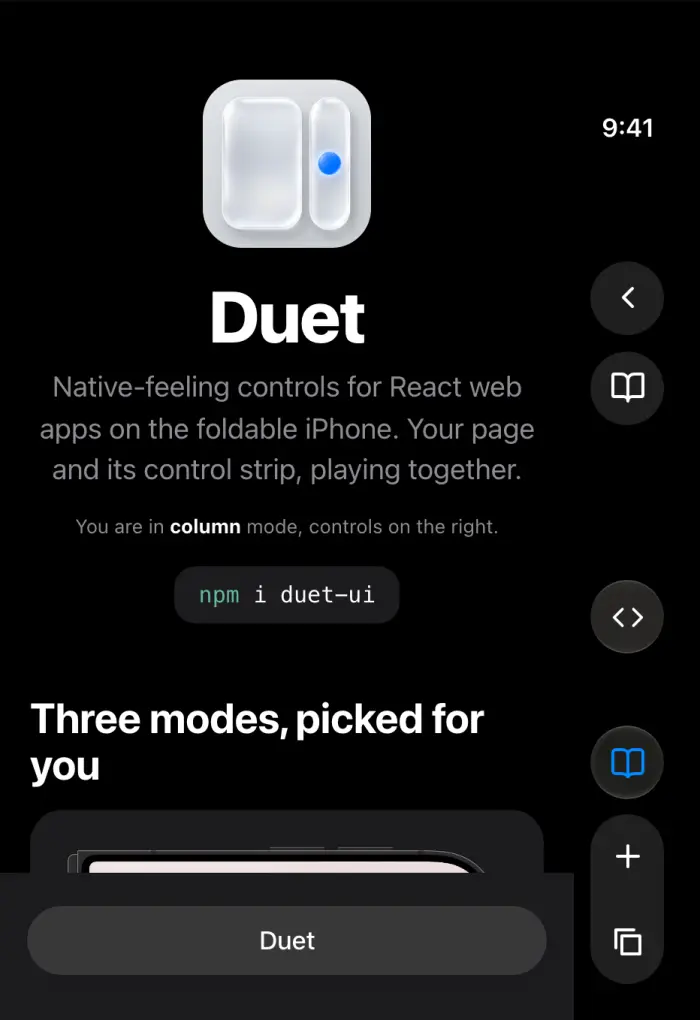
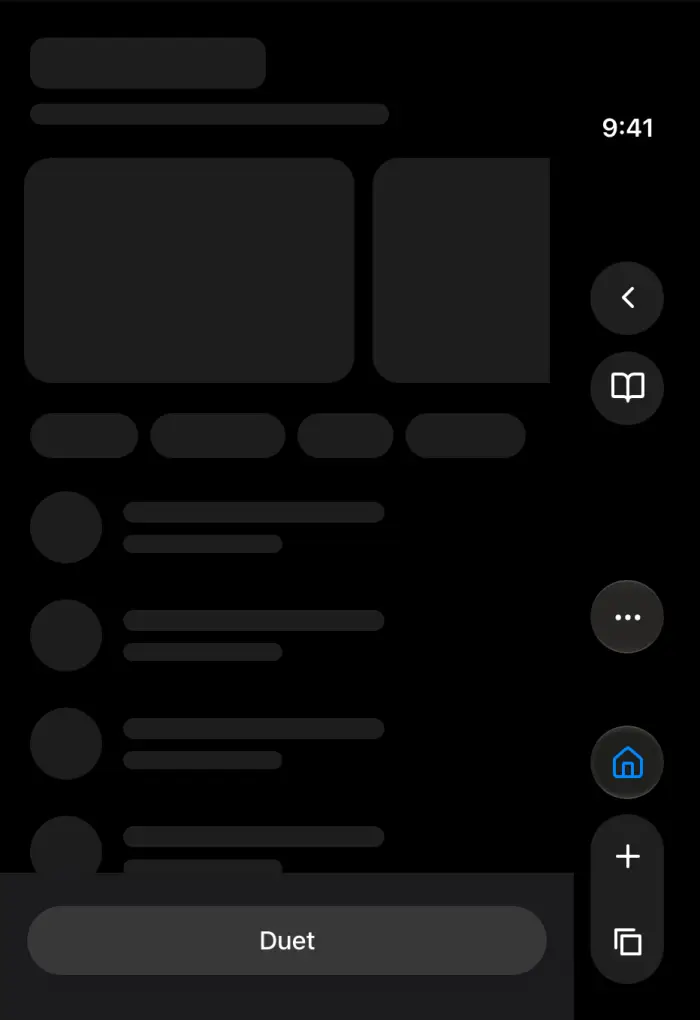
site: skeleton app for the hero and Try it live
Ghost boxes stand in for content so the hero stills and the web Duo show only what Duet adds. Try it live defaults to the skeleton, with a toggle to this site.

diff --git a/apps/site/app/skeleton/skeleton-app.tsx b/apps/site/app/skeleton/skeleton-app.tsx
@@ -1,0 +1,70 @@
+"use client";
+
+import { useState, type CSSProperties } from "react";
+import { Bell, House, Library, Plus, Search, Share } from "lucide-react";
+import { Duet, bleed, column, type DuetItem } from "duet-ui";
+
+const TABS = [
+  { id: "home", label: "Home", icon: <House size={24} /> },
+  { id: "library", label: "Library", icon: <Library size={24} /> },
+  { id: "alerts", label: "Alerts", icon: <Bell size={24} /> },
+] as const satisfies readonly DuetItem[];
+
+const CSS = `
+@keyframes sk-shine { from { background-position: 100% 0; } to { background-position: -100% 0; } }
+[data-sk] { background: linear-gradient(90deg, var(--sk) 40%, var(--sk-hi) 50%, var(--sk) 60%) 0 0 / 200% 100%; animation: sk-shine 1.8s linear infinite; }
+:root { --sk: rgb(60 60 67 / 0.13); --sk-hi: rgb(60 60 67 / 0.05); }
+@media (prefers-color-scheme: dark) { :root:not([data-lg-theme="light"]) { --sk: rgb(235 235 245 / 0.12); --sk-hi: rgb(235 235 245 / 0.2); } }
+:root[data-lg-theme="dark"] { --sk: rgb(235 235 245 / 0.12); --sk-hi: rgb(235 235 245 / 0.2); }
+@media (prefers-reduced-motion: reduce) { [data-sk] { animation: none; } }
+`;
+
+/** A ghost box: where a piece of content would be. */
+function Box({ w = "100%", h, r = 12, style }: { w?: number | string; h: number; r?: number; style?: CSSProperties }) {
+  return <div data-sk="" style={{ width: w, height: h, borderRadius: r, flexShrink: 0, ...style }} />;
+}
+
+function Row() {
+  return (
+    <div style={{ display: "flex", alignItems: "center", gap: 14, padding: "12px 0" }}>
+      <Box w={48} h={48} r={24} />
+      <div style={{ flex: 1, display: "grid", gap: 8 }}><Box w="62%" h={14} r={7} /><Box w="38%" h={12} r={6} /></div>
+    </div>
+  );
+}
+
+export function SkeletonApp() {
+  const [tab, setTab] = useState<(typeof TABS)[number]["id"] | "search">("home");
+  return (
+    <Duet
+      tabs={{ items: TABS, selected: tab, onSelect: setTab, search: { id: "search", label: "Search", icon: <Search size={24} /> } }}
+      actions={[{ id: "share", label: "Share", icon: <Share size={22} />, onPress: () => {} }]}
+      primary={{ id: "new", label: "New", icon: <Plus size={22} />, onPress: () => {} }}
+      minimizeOnScroll
+    >
+      <style>{CSS}</style>
+      <main style={{ padding: "calc(24px + env(safe-area-inset-top)) 0 120px" }}>
+        <div style={{ ...column(720), display: "grid", gap: 10, paddingBottom: 18 }}>
+          <Box w="46%" h={34} r={10} />
+          <Box w="70%" h={14} r={7} />
+        </div>
+        {/* A full-width band: it runs under the controls, its content stays beside them. */}
+        <div style={{ ...bleed(16), paddingTop: 4, paddingBottom: 20 }}>
+          <div style={{ display: "flex", gap: 12, overflow: "hidden" }}>
+            {[0, 1, 2, 3].map((i) => <Box key={i} w={220} h={150} r={18} />)}
+          </div>
+        </div>
+        <div style={{ ...column(720) }}>
+          <div style={{ display: "flex", gap: 8, paddingBottom: 10 }}>
+            {[72, 90, 64, 80].map((w, i) => <Box key={i} w={w} h={30} r={15} />)}
+          </div>
+          {[0, 1, 2, 3].map((i) => <Row key={i} />)}
+          <div style={{ display: "grid", gridTemplateColumns: "repeat(auto-fill, minmax(150px, 1fr))", gap: 12, paddingTop: 16 }}>
+            {[0, 1, 2, 3, 4, 5].map((i) => <Box key={i} h={120} r={16} />)}
+          </div>
+          {[0, 1, 2, 3].map((i) => <Row key={`b${i}`} />)}
+        </div>
+      </main>
+    </Duet>
+  );
+}

diff --git a/apps/site/app/duo/web-duo.tsx b/apps/site/app/duo/web-duo.tsx
@@ -178,7 +178,8 @@ const fit = (s: State): State => {
   return !only ? s : s.posture === only && !s.rotated ? s : { ...s, app: "safari" };
 };
 
-export function WebDuo({ src, title = "Duet", intro = "This is the site on a web iPhone Duo. Fold it, turn it, split it. On a phone, the site opens directly." }: { src: string; title?: string; intro?: string }) {
+export function WebDuo({ src: first, sources, title = "Duet", intro = "This is the site on a web iPhone Duo. Fold it, turn it, split it. On a phone, the site opens directly." }: { src: string; sources?: [string, string][]; title?: string; intro?: string }) {
+  const [src, setSrc] = useState(first);
   const [s, setS] = useState<State>(TOUR[0]);
   // The page inside turns upright only once the device has finished turning, like iOS.
   const [upright, setUpright] = useState(false);
@@ -395,6 +396,7 @@ export function WebDuo({ src, title = "Duet", intro = "This is the site on a web
       </div>
 
       <div style={{ display: "flex", flexWrap: "wrap", gap: 10, justifyContent: "center", padding: "0 16px", maxWidth: 1100 }}>
+        {sources && <Segmented value={src} onChange={setSrc} options={sources} />}
         <Segmented value={s.posture} onChange={(posture) => go({ posture })} options={[["closed", "Closed"], ["open", "Open"]]} />
         <Button onClick={() => go({ rotated: !s.rotated })} label="Rotate"><RotateCw size={17} /></Button>
         <Segmented value={s.app} onChange={(app) => go({ app })}

diff --git a/apps/site/app/home.tsx b/apps/site/app/home.tsx
@@ -45,7 +45,7 @@ export function Home() {
   const desktop = useDesktop();
   // Before hydration the server can't tell a phone from a desktop: send the phone site, so a phone never sees a
   // blank page, and hide it on desktops (site.css) until the web Duo takes over.
-  return desktop ? <><UnfoldHero /><WebDuo src="/" title="Try it live" intro="The real site, running on a web iPhone Duo. Fold it, turn it, split it, and watch Duet pick its mode." /></> : <div className={desktop === null ? "ssr-site" : undefined}><Site /></div>;
+  return desktop ? <><UnfoldHero /><WebDuo src="/skeleton" sources={[["/skeleton", "Layout"], ["/", "This site"]]} title="Try it live" intro="A Duet app on a web iPhone Duo: grey boxes are your content, the rest is Duet. Fold it, turn it, split it, and watch Duet pick its mode." /></> : <div className={desktop === null ? "ssr-site" : undefined}><Site /></div>;
 }
 
 function Site() {

diff --git a/apps/site/app/skeleton/page.tsx b/apps/site/app/skeleton/page.tsx
@@ -1,0 +1,9 @@
+import type { Metadata } from "next";
+import { SkeletonApp } from "./skeleton-app";
+
+export const metadata: Metadata = { title: "Skeleton" };
+
+// A Duet app with ghost boxes for content: the hero and the web Duo show where content goes and what Duet adds.
+export default function Page() {
+  return <SkeletonApp />;
+}
